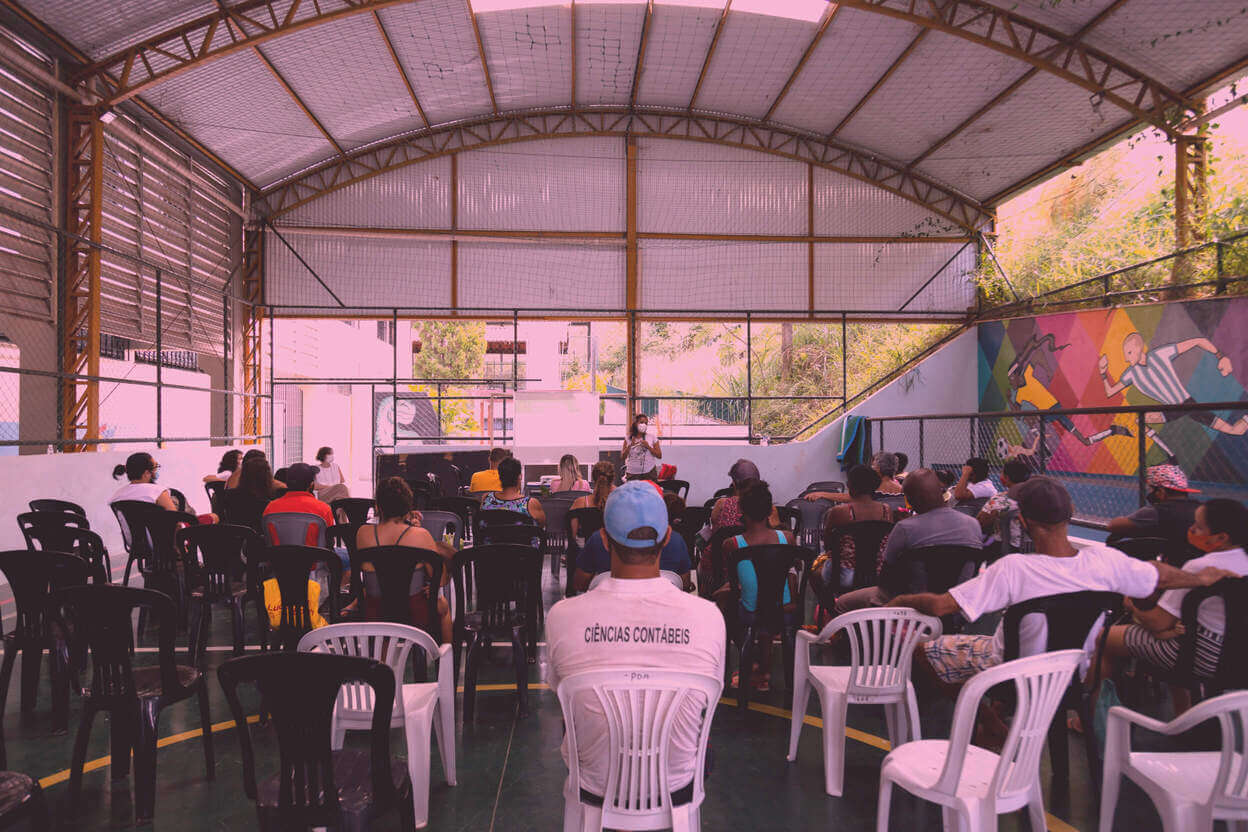
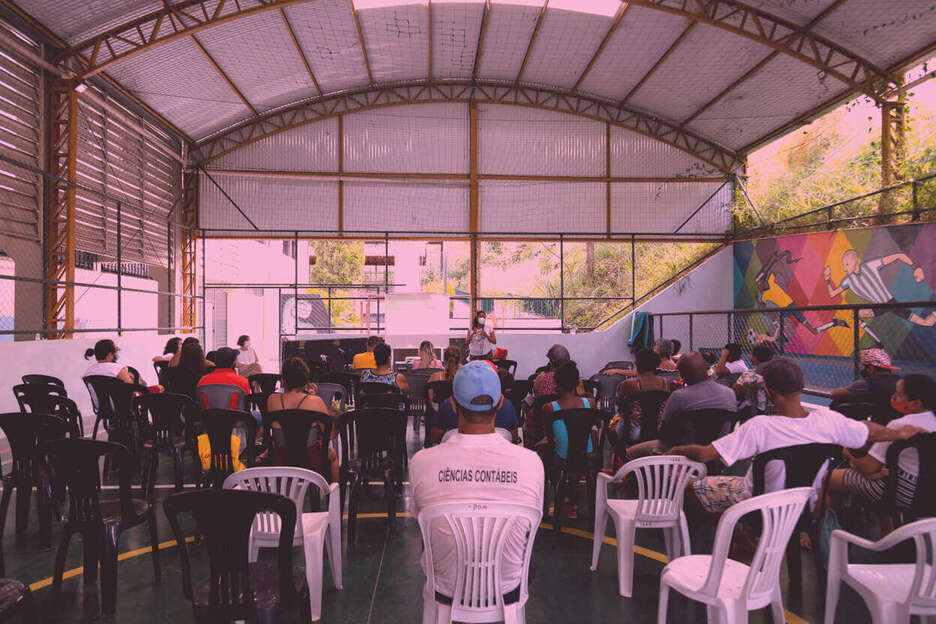
reduce img sizes and minor changes

diff --git a/docs/js/config.js b/docs/js/config.js
@@ -899,23 +899,23 @@ var config = {
     },
 
     {
-      id: "publicacoes",
+      id: "publicacoes", 
       alignment: "full",
       hidden: false,
       description: '\
       <div class="light">\
         <div class="container container-exp p-bottom">\
             <h1 class="align-self-center rosa text-center">2022 em Publicações</h1>\
-            <div class="col-12 text-center pb-3">\
-                  <a class="btn btn-primary mr-1" href="#theCarouselPub" role="button" data-slide="prev">\
-                      <i class="fa fa-arrow-left cursor-hover"></i>\
+            <div class="col-12 text-center pb-3 pt-3">\
+                  <a class="btn btn-primary mr-1 cursor-hover" href="#theCarouselPub" role="button" data-slide="prev">\
+                      <i class="fa fa-arrow-left"></i>\
                   </a>\
-                  <a class="btn btn-primary" href="#theCarouselPub" role="button" data-slide="next">\
-                      <i class="fa fa-arrow-right cursor-hover"></i>\
+                  <a class="btn btn-primary cursor-hover" href="#theCarouselPub" role="button" data-slide="next">\
+                      <i class="fa fa-arrow-right"></i>\
                   </a>\
             </div>\
-            <div class="carousel slide multi-item-carousel" data-ride="carousel" id="theCarouselPub" data-interval="993000" role="listbox">\
-              <div class="carousel-inner row w-100 mx-auto  pb-4 pt-4">\
+            <div class="carousel slide multi-item-carousel" data-ride="carousel" id="theCarouselPub" data-interval="3500" role="listbox">\
+              <div class="carousel-inner row w-100 mx-auto pb-5 pt-4">\
                 <div class="carousel-item active col-md-4">\
                   <div class="wrapper">\
                     <div class="card front-face">\
@@ -1297,7 +1297,7 @@ var config = {
       <div class="light">\
         <div class="container container-exp p-bottom">\
             <h1 class="align-self-center azul text-center">2022 em Metodologias</h1>\
-            <div class="col-12 text-center pb-3">\
+            <div class="col-12 text-center pb-4 pt-3">\
                   <a class="btn btn-primary mr-1 btn-primary-azul " href="#theCarousel" role="button" data-slide="prev">\
                       <i class="fa fa-arrow-left cursor-hover"></i>\
                   </a>\
@@ -1306,20 +1306,7 @@ var config = {
                   </a>\
             </div>\
             <div class="carousel slide multi-item-carousel" data-ride="carousel" id="theCarousel" data-interval="3000" role="listbox">\
-              <ol class="carousel-indicators">\
-                  <li data-target="theCarousel" data-slide-to="0" class="active"></li>\
-                  <li data-target="theCarousel" data-slide-to="1"></li>\
-                  <li data-target="theCarousel" data-slide-to="2"></li>\
-                  <li data-target="theCarousel" data-slide-to="3"></li>\
-                  <li data-target="theCarousel" data-slide-to="4"></li>\
-                  <li data-target="theCarousel" data-slide-to="5"></li>\
-                  <li data-target="theCarousel" data-slide-to="6"></li>\
-                  <li data-target="theCarousel" data-slide-to="7"></li>\
-                  <li data-target="theCarousel" data-slide-to="8"></li>\
-                  <li data-target="theCarousel" data-slide-to="9"></li>\
-                  <li data-target="theCarousel" data-slide-to="10"></li>\
-              </ol>\
-              <div class="carousel-inner row w-100 mx-auto  pb-4 pt-4">\
+              <div class="carousel-inner row w-100 mx-auto pb-5 pt-4">\
                 <div class="carousel-item active col-md-4">\
                   <div class="wrapper">\
                     <div class="card front-face">\
@@ -1464,6 +1451,19 @@ var config = {
                   </div>\
                 </div>\
               </div>\
+              <ol class="carousel-indicators">\
+                  <li data-target="theCarousel" data-slide-to="0" class="active"></li>\
+                  <li data-target="theCarousel" data-slide-to="1"></li>\
+                  <li data-target="theCarousel" data-slide-to="2"></li>\
+                  <li data-target="theCarousel" data-slide-to="3"></li>\
+                  <li data-target="theCarousel" data-slide-to="4"></li>\
+                  <li data-target="theCarousel" data-slide-to="5"></li>\
+                  <li data-target="theCarousel" data-slide-to="6"></li>\
+                  <li data-target="theCarousel" data-slide-to="7"></li>\
+                  <li data-target="theCarousel" data-slide-to="8"></li>\
+                  <li data-target="theCarousel" data-slide-to="9"></li>\
+                  <li data-target="theCarousel" data-slide-to="10"></li>\
+              </ol>\
             </div>\
         </div>\
       </div>\

diff --git a/docs/css/style.css b/docs/css/style.css
@@ -532,7 +532,7 @@ ul.social-icons li{
 /* The progress container */
 .progress-container {
     width: 100%;
-    height: 5px;
+    height: 6px;
     background: #fff;
     position: fixed;
     z-index: 9999;
@@ -540,7 +540,7 @@ ul.social-icons li{
 
 /* The progress bar (scroll indicator) */
 .progress-bar {
-    height: 5px;
+    height: 6px;
     background: #cc3480;
     width: 0%;
     top: 0;
@@ -800,24 +800,6 @@ ul.social-icons li{
   left: 8px;
 }
 
-/* ACCORDEON NUMEROS */
-
-.accordion .highlight .btn {
-    color: #cc3480;
-}
-
-.accordion .highlight i {
-    transform: rotate(180deg);
-}
-
-.card-header .btn {
-    font-weight: bold;
-}
-
-.accordion h1, .h1 {
-    font-family: 'Bolgart', sans-serif;
-}
-
 .wrapper {
     height: 350px;
     width: auto;
@@ -902,7 +884,6 @@ ul.social-icons li{
     border-radius: 10px;
 }
 
-
 #theCarousel .wrapper .front-face { 
     background-color: #00568a;
     color: #fff;
@@ -916,14 +897,14 @@ ul.social-icons li{
 }
 
 #theCarouselPub .front-face h5 {
-    color: #fff;
+    color: #cc3480;
     position: absolute;
-    background-color: #cc3480;
-    border-radius: 75px;
+    background-color: #ffc5da;
+    border-radius: 25px;
     font-size: 0.85rem;
     margin: 0.75rem 0.5rem;
     padding: 0.5rem 0.75rem;
-    max-width: 80%;
+    max-width: 85%;
 }
 
 #theCarouselPub .front-face p {
@@ -941,38 +922,34 @@ ul.social-icons li{
 .wrapper .back-face {
     display: flex;
     align-items: center;
-    justify-content: space-evenly;
+    justify-content: flex-start;
     flex-direction: column;
     transform: rotateY(180deg);
-    background-image: linear-gradient(
-        to bottom,
-        hsla(0, 0%, 0%, 0) 0%,
-        hsla(0, 0%, 0%, 0.009) 11.7%,
-        hsla(0, 0%, 0%, 0.034) 22.1%,
-        hsla(0, 0%, 0%, 0.072) 31.2%,
-        hsla(0, 0%, 0%, 0.123) 39.4%,
-        hsla(0, 0%, 0%, 0.182) 46.6%,
-        hsla(0, 0%, 0%, 0.249) 53.1%,
-        hsla(0, 0%, 0%, 0.320) 58.9%,
-        hsla(0, 0%, 0%, 0.394) 64.3%,
-        hsla(0, 0%, 0%, 0.468) 69.3%,
-        hsla(0, 0%, 0%, 0.540) 74.1%,
-        hsla(0, 0%, 0%, 0.607) 78.8%,
-        hsla(0, 0%, 0%, 0.668) 83.6%,
-        hsla(0, 0%, 0%, 0.721) 88.7%,
-        hsla(0, 0%, 0%, 0.762) 94.1%,
-        hsla(0, 0%, 0%, 0.790) 100%
-      );
 }
 
 #theCarousel .wrapper .back-face {
     background-color: #00568a;
-    color: #fff;
+    color: #fdf0f2;
+    padding: 2em 1em;
 }
 
 #theCarouselPub .wrapper .back-face {
+    background-color: #ffc5da;
+    color: #00568a;
+    padding: 2em 1em;
+}
+
+#theCarouselPub .btn-primary {
+    margin-top: 0.5em;
+    color: #00568a;
+    border: 2px solid #00568a;
+
+}
+  
+#theCarouselPub .btn-primary:hover {
+    color: #fdf0f2;
     background-color: #cc3480;
-    color: #fff;
+    border-color: #cc3480;
 }
 
 .wrapper:hover>.back-face {
@@ -1058,7 +1035,7 @@ ul.social-icons li{
     .multi-item-carousel .active.carousel-item-left + .carousel-item-next.carousel-item-left,
     .multi-item-carousel .carousel-item-next.carousel-item-left + .carousel-item,
     .multi-item-carousel .carousel-item-next.carousel-item-left + .carousel-item + .carousel-item,
-img-fluid    .multi-item-carousel .carousel-item-next.carousel-item-left + .carousel-item + .carousel-item + .carousel-item {
+    .multi-item-carousel .carousel-item-next.carousel-item-left + .carousel-item + .carousel-item + .carousel-item {
       position: relative;
       transform: translate3d(-100%, 0, 0);
       visibility: visible;

diff --git a/docs/css/time.css b/docs/css/time.css
@@ -47,19 +47,6 @@
      object-fit: cover;
 }
 
-/*.accordion .card-body {
-  font-size: 0.65rem;
-  line-height: 1.15;
-}
-
-.accordion .btn {
-  padding: 0;
-}
-
-.accordion img {
-  width: 100%;
-}*/
-
 .timeline__head {
   display: block;
   padding: 0.2em 0;
@@ -109,30 +96,4 @@
     margin-right: 10px;
   }
 
-  /*.accordion .card-body {
-    font-size: 0.7rem;
-    line-height: 1.15;
-  }*/
-
 }
-
-/*@media (min-width: 768px) {
-  .accordion .card-body {
-    font-size: 0.7rem;
-    line-height: 1.15;
-  }
-}
-
-@media (min-width: 992px) {
-  .accordion .card-body {
-    font-size: 0.825rem;
-    line-height: 1.175;
-  }
-}
-
-@media (min-width: 1200px) {
-  .accordion .card-body {
-    font-size: 0.9rem;
-    line-height: 1.2;
-  }
-}*/
